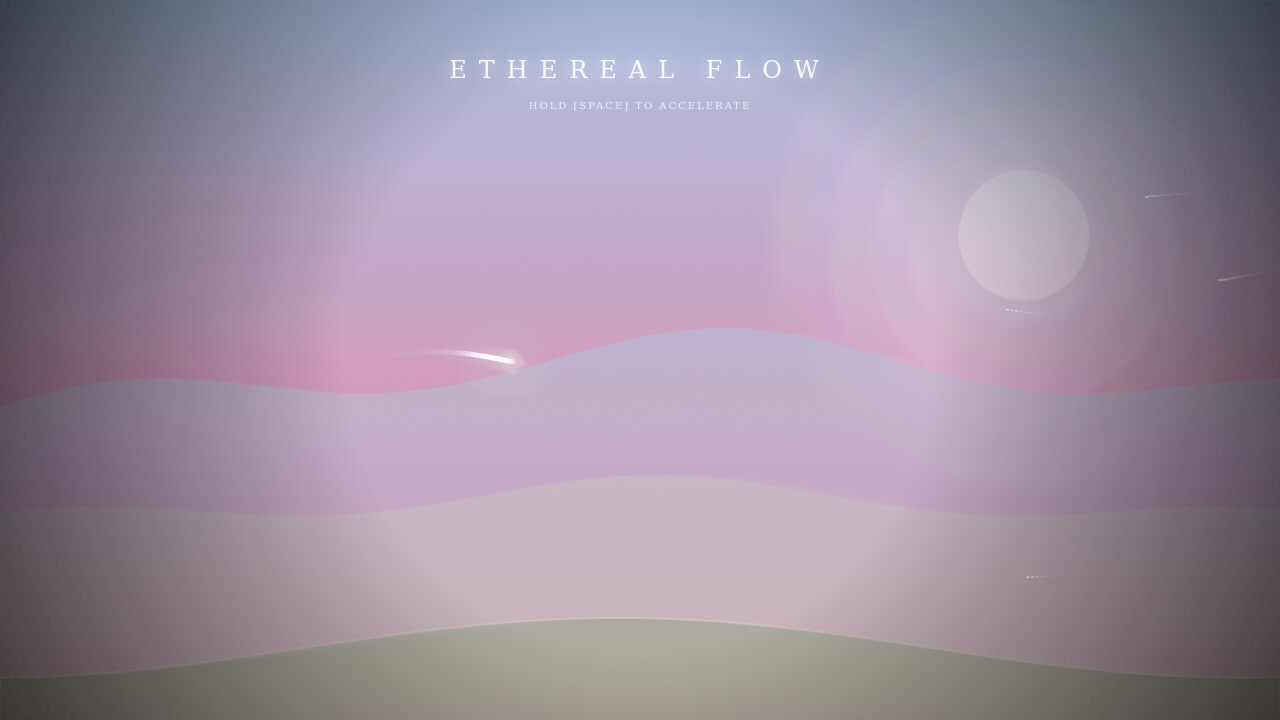
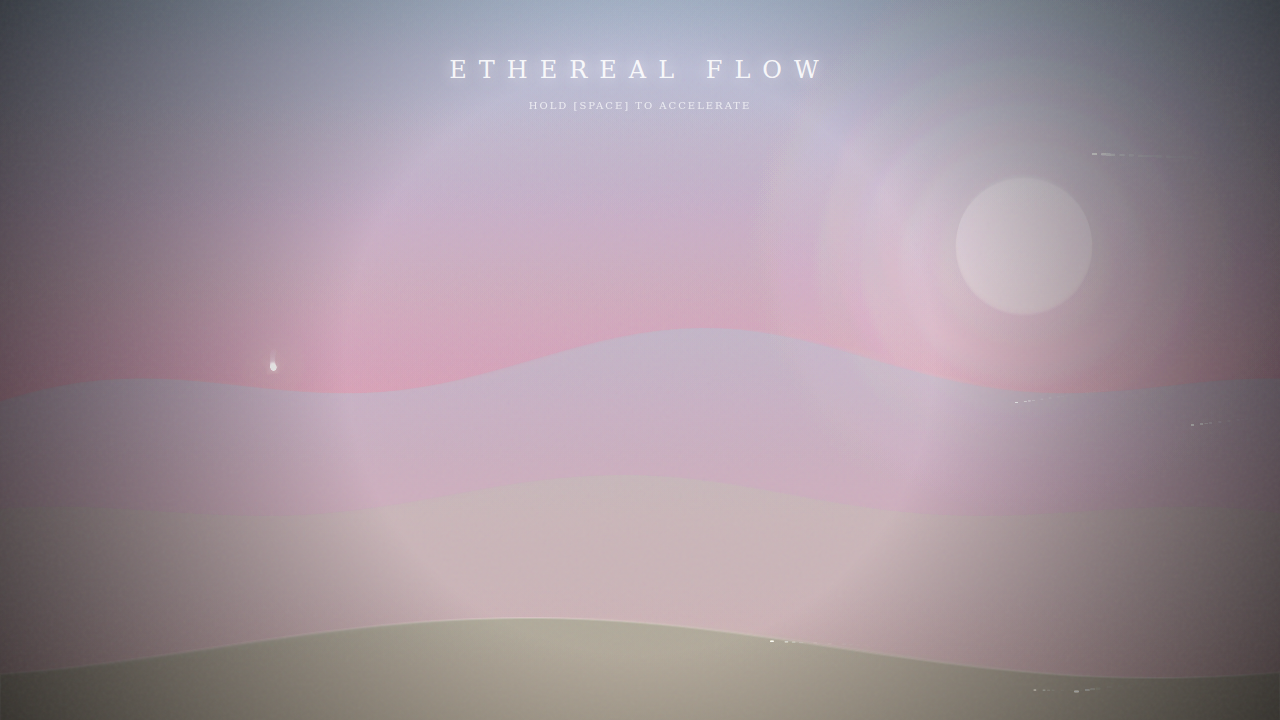
feat: Implement horizontal movement, wind effect, and dynamic trails
- Refactored player movement to be horizontal, driven by acceleration.
- Added a dynamic "wind" effect for more engaging flight, with constraints to prevent backward movement on acceleration.
- Implemented variable-length trails for the player crystal, which get longer with increased speed.
- Fixed bugs related to player movement and trail rendering.
- Updated RoadMap.md to reflect the completion of these features.

Changed region(s): [[0.4688, 0.8556, 0.75, 0.9167], [0.2188, 0.8556, 0.4062, 0.9167], [0.3438, 0.4889, 0.4062, 0.5194]]

diff --git a/game.js b/game.js
@@ -159,11 +159,21 @@ function update(currentTime) {
     }
 
 
-    // 2. 风力模拟
+    // 2. 风力模拟 (优化版)
     state.wind.timer -= dt;
     if (state.wind.timer <= 0) {
         // 当计时器结束，设定一个新的风力目标和下一个变化时间
-        state.wind.target = random(-25, 25); // 风力范围：-25 (向左) 到 +25 (向右)
+        if (state.targetSpeed > CFG.baseSpeed) {
+            // 加速时，风是轻微的正向扰动，绝不后退
+            state.wind.target = random(0, 1.5);
+        } else {
+            // 漂移时，后退是小概率事件
+            if (Math.random() < 0.15) { // 15% 概率逆风
+                state.wind.target = random(-1.5, -0.5);
+            } else { // 85% 概率顺风
+                state.wind.target = random(-0.5, 2.5);
+            }
+        }
         state.wind.timer = state.wind.nextChange = random(100, 300); // 下一次变化在100-300帧后
     }
     // 平滑地将当前风力过渡到目标风力
@@ -176,7 +186,13 @@ function update(currentTime) {
     // 水平位置：加速时向右移动，减速时返回
     const targetX = w * (state.targetSpeed > CFG.baseSpeed ? 0.35 : 0.2);
     // 玩家位置同时受到 lerp 缓动和风力的影响
-    state.player.x = lerp(state.player.x, targetX, 0.04 * dt) + state.wind.current * dt;
+    const windForce = state.wind.current * dt;
+    state.player.x = lerp(state.player.x, targetX, 0.04 * dt) + windForce;
+
+    // 限制玩家的活动范围在屏幕的特定区域内，防止漂移过远 (15% -> 40% = 25% 宽度)
+    const minX = w * 0.15;
+    const maxX = w * 0.40;
+    state.player.x = Math.max(minX, Math.min(maxX, state.player.x));
 
     // 垂直位置：轻微的上下浮动，而不是基于速度的剧烈升降
     state.player.y = h * 0.5 + Math.sin(state.t * 0.08) * 8;

diff --git a/RoadMap.md b/RoadMap.md
@@ -16,6 +16,7 @@
 ## 阶段三：BUG修复与优化
 - [x] 深入分析并修复`game.js`中潜在的BUG
 - [x] 优化角色移动与飞行效果，使其更具动态感
+- [x] 优化风效，实现更流畅的晶体运动
 - [x] 优化代码结构和性能
 - [ ] 响应式设计，适配不同屏幕尺寸
 
